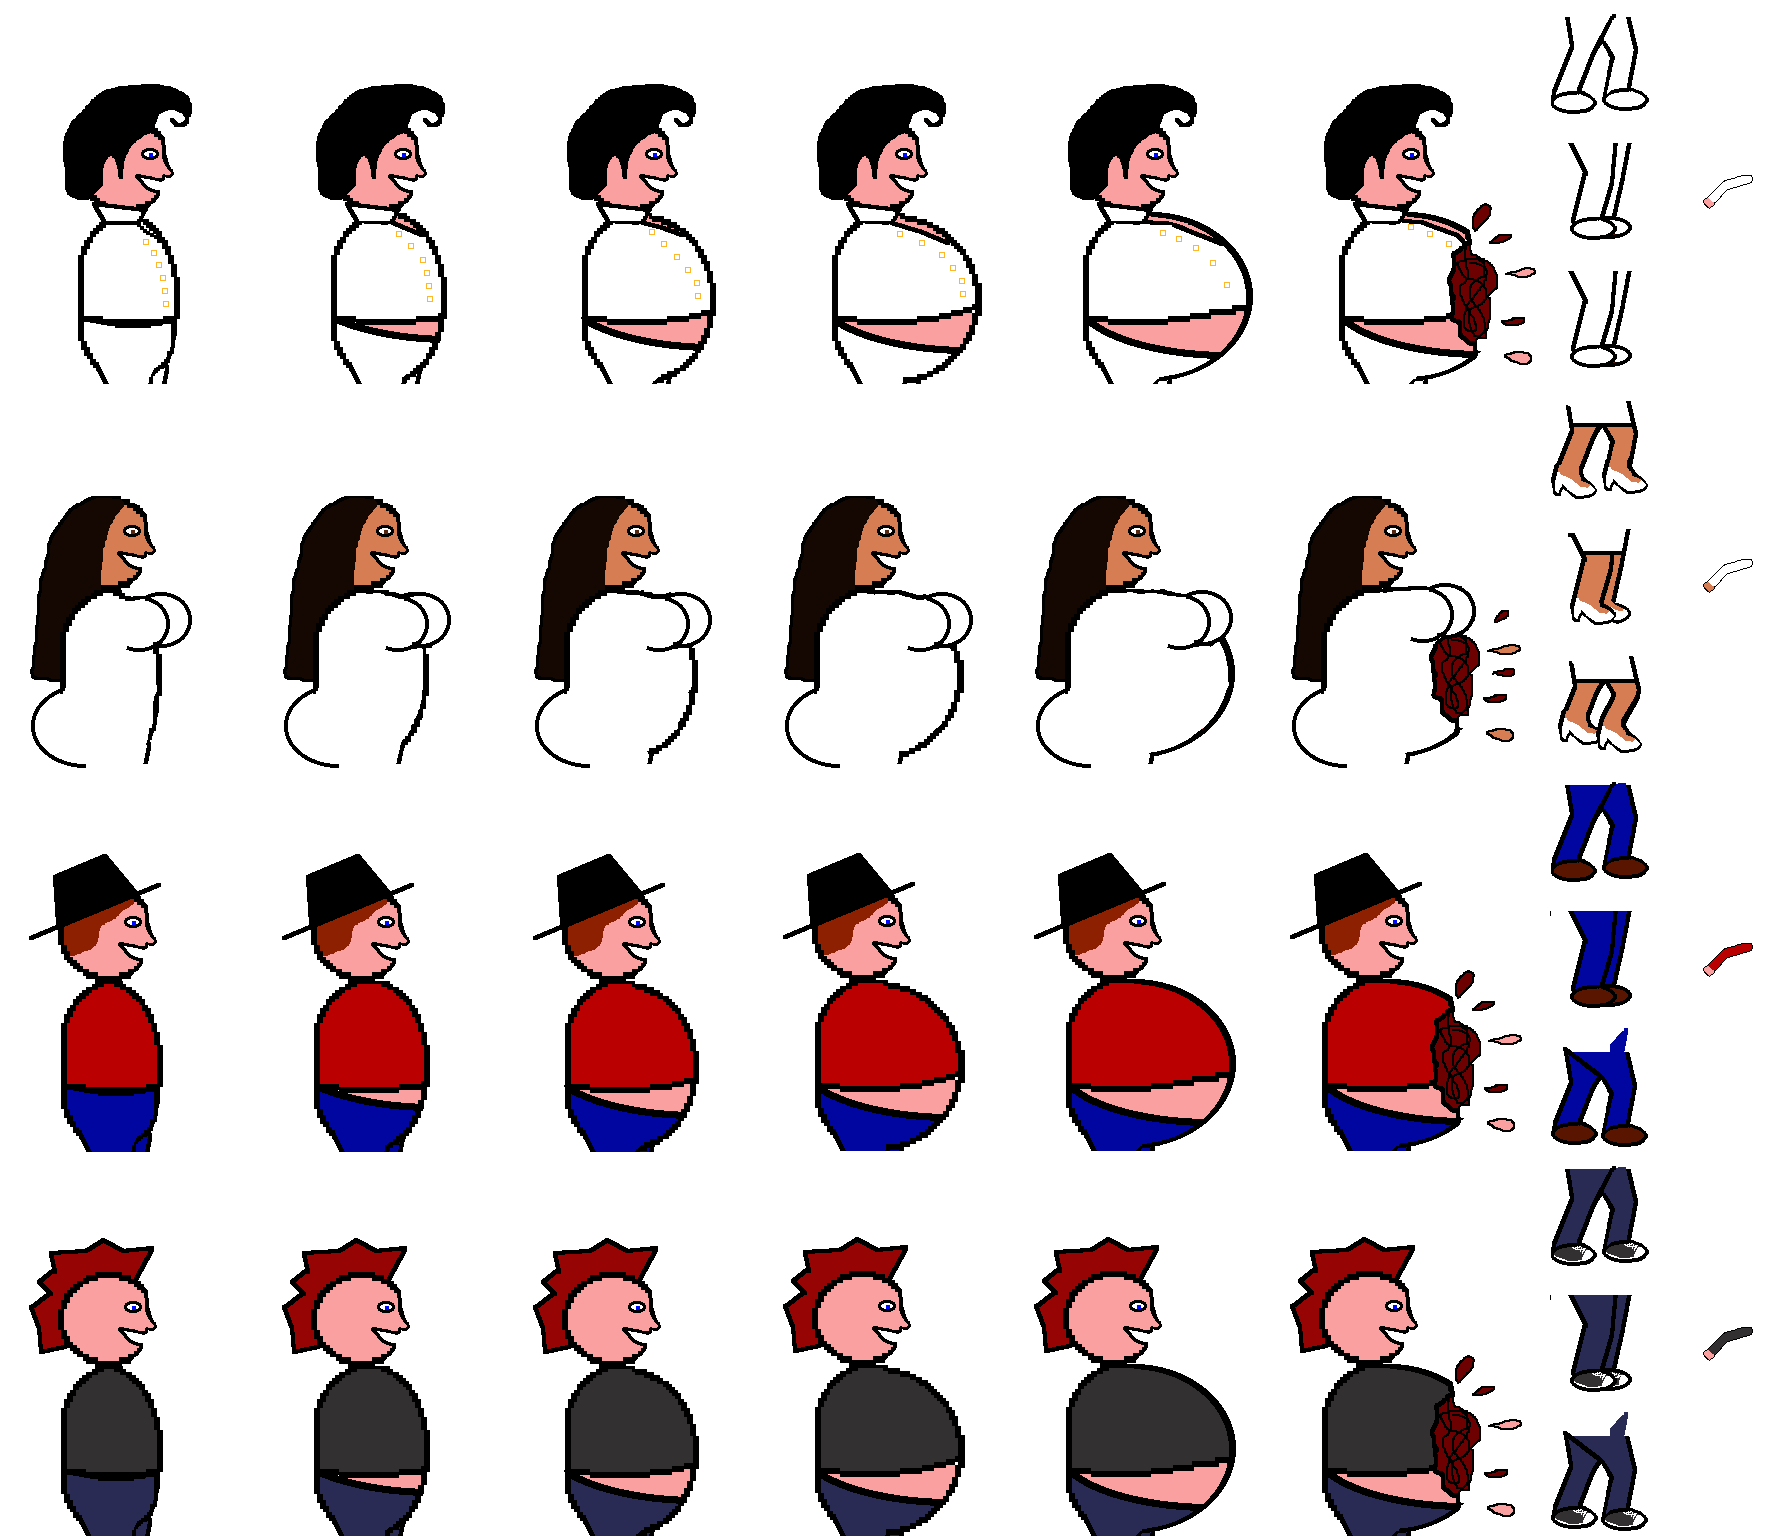
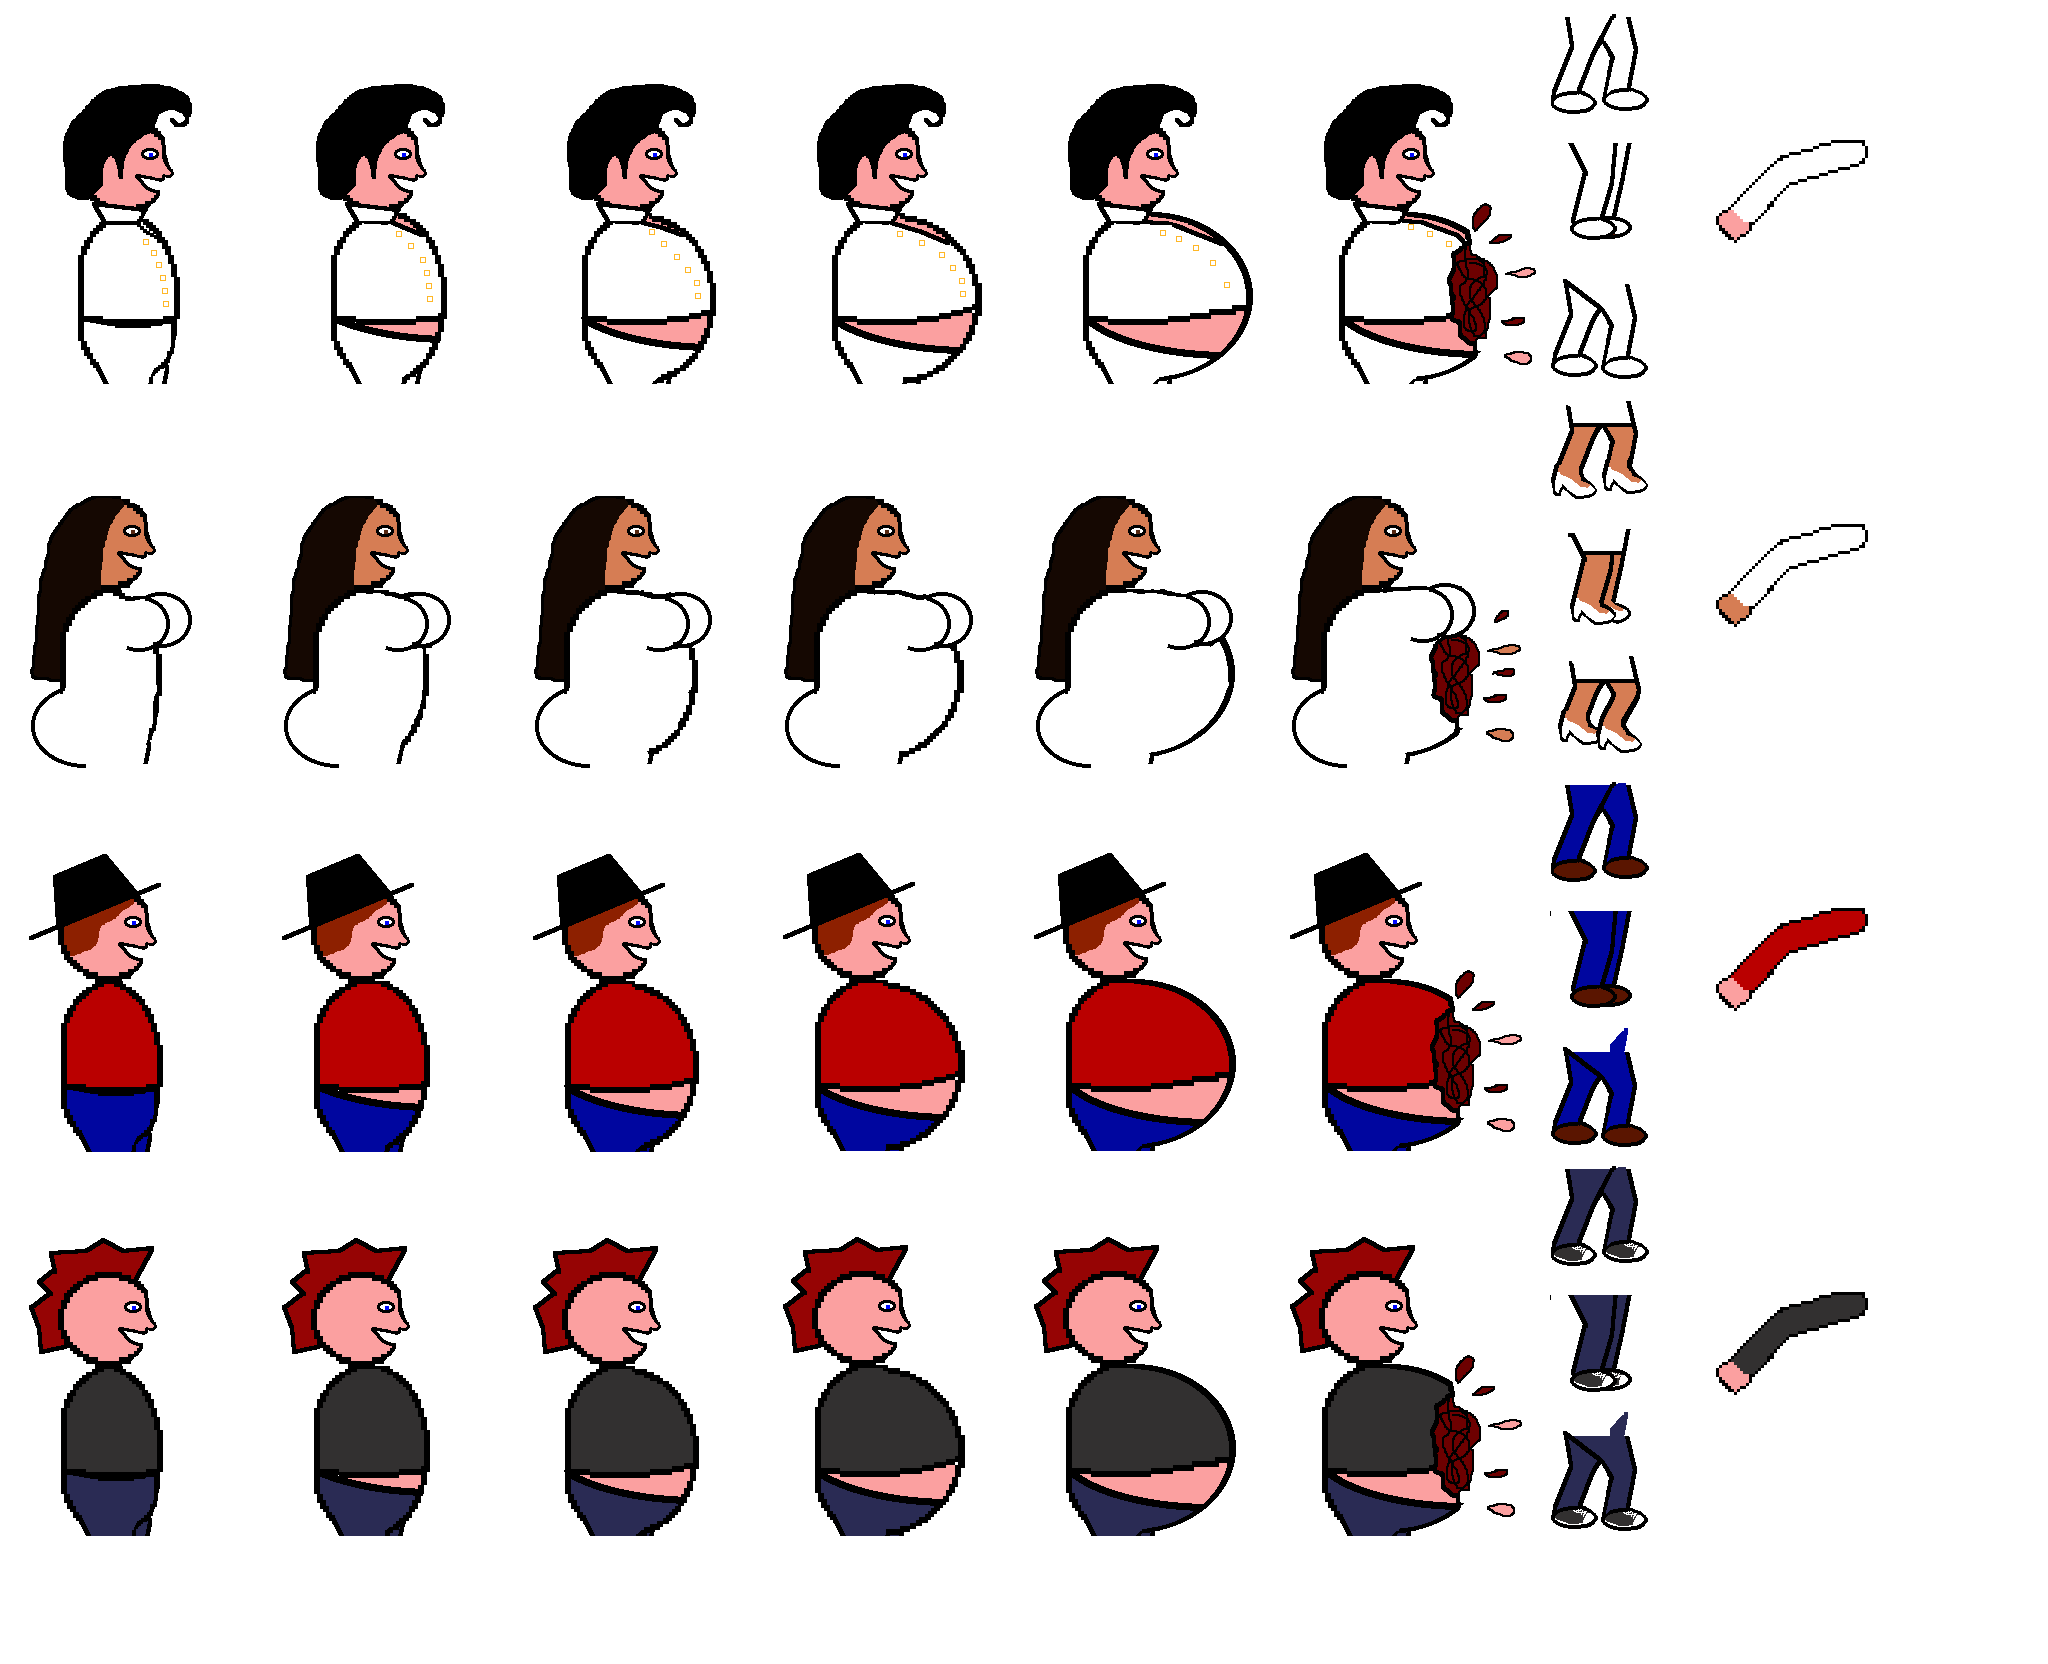
Basic feet animation

diff --git a/src/food-feud/main/java/uib/teamdank/foodfeud/Player.java b/src/food-feud/main/java/uib/teamdank/foodfeud/Player.java
@@ -6,25 +6,37 @@ import com.badlogic.gdx.physics.box2d.Body;
 import uib.teamdank.common.Actor;
 import uib.teamdank.common.Inventory;
 import uib.teamdank.common.ItemHolder;
+import uib.teamdank.common.util.Animation;
+import uib.teamdank.common.util.AssetManager;
 
 /**
  * Represents a player in the game.
  */
 public class Player extends Actor implements ItemHolder, PhysicsSimulated {
-	
+
 	private static final float HORIZONTAL_MOVEMENT_IMPULSE = 5000f;
 	private static final float JUMP_FORCE = 100000000f;
-	
+
+	private final Animation stillAnimation;
+	private final Animation walkingAnimation;
+	private final Animation fallingAnimation;
+
 	private Body body;
-	private boolean onGround; 
-	
+	private boolean onGround;
+	private boolean walking;
+
 	private Inventory weapons;
 	
-	public Player(String name) {
+	public Player(AssetManager assets, Team team, String name) {
 		super(100, name);
 		weapons = new Inventory();
+
+		this.stillAnimation = assets.getAnimation(team.getStillAnimation());
+		this.walkingAnimation = assets.getAnimation(team.getWalkingAnimation());
+		this.fallingAnimation = assets.getAnimation(team.getFallingAnimation());
+		setScale(.5f);
 	}
-	
+
 	@Override
 	public float getAngle() {
 		if (body != null) {
@@ -32,16 +44,16 @@ public class Player extends Actor implements ItemHolder, PhysicsSimulated {
 		}
 		return super.getAngle();
 	}
-	
+
 	public Body getBody() {
 		return body;
 	}
-	
+
 	@Override
 	public Inventory getInventory() {
 		return weapons;
 	}
-	
+
 	@Override
 	public Vector2 getPosition() {
 		if (body != null) {
@@ -51,30 +63,60 @@ public class Player extends Actor implements ItemHolder, PhysicsSimulated {
 		return super.getPosition();
 	}
 	
+	@Override
+	public Vector2 getVelocity() {
+		if (body != null) {
+			super.getVelocity().set(body.getLinearVelocity());
+		}
+		return super.getVelocity();
+	}
+
+	private boolean isMoving() {
+		return !body.getLinearVelocity().equals(Vector2.Zero);
+	}
+
 	public boolean isOnGround() {
 		return onGround;
 	}
-	
+
 	public void jump() {
 		if (isOnGround()) {
 			body.applyForceToCenter(0, JUMP_FORCE, true);
 		}
 	}
-	
+
 	public void moveLeft() {
 		body.applyLinearImpulse(-HORIZONTAL_MOVEMENT_IMPULSE, 0, getWidth() / 2, getHeight() / 2, true);
+		walking = true;
 	}
-	
+
 	public void moveRight() {
 		body.applyLinearImpulse(HORIZONTAL_MOVEMENT_IMPULSE, 0, getWidth() / 2, getHeight() / 2, true);
+		walking = true;
 	}
-	
+
 	public void setBody(Body body) {
 		this.body = body;
 	}
-	
+
 	public void setOnGround(boolean onGround) {
 		this.onGround = onGround;
 	}
-	
+
+	@Override
+	public void update(float delta) {
+		super.update(delta);
+		
+		if (isOnGround() && isMoving() && walking) {
+			setAnimation(walkingAnimation);
+		} else if (!isOnGround()) {
+			setAnimation(fallingAnimation);
+		} else {
+			setAnimation(stillAnimation);
+		}
+		setFlipHorizontally(getVelocity().x < 0);
+		walking = false;
+		
+	}
+
 }

diff --git a/src/food-feud/main/java/uib/teamdank/foodfeud/PhysicsContactListener.java b/src/food-feud/main/java/uib/teamdank/foodfeud/PhysicsContactListener.java
@@ -12,18 +12,20 @@ public class PhysicsContactListener implements ContactListener {
 
 	private final Match match;
 
+	private int activePlayerGroundContactCount = 0;
+
 	public PhysicsContactListener(Match match) {
 		this.match = Objects.requireNonNull(match, "match canont be null");
 	}
 
 	@Override
 	public void beginContact(Contact contact) {
-		updateActivePlayerGroundStatus(contact.getFixtureA(), contact.getFixtureB(), true);
+		updateActivePlayerGroundStatus(contact.getFixtureA(), contact.getFixtureB(), false);
 	}
 
 	@Override
 	public void endContact(Contact contact) {
-		updateActivePlayerGroundStatus(contact.getFixtureA(), contact.getFixtureB(), false);
+		updateActivePlayerGroundStatus(contact.getFixtureA(), contact.getFixtureB(), true);
 	}
 
 	@Override
@@ -36,11 +38,22 @@ public class PhysicsContactListener implements ContactListener {
 		// Not necessary
 	}
 
-	private void updateActivePlayerGroundStatus(Fixture fixtureA, Fixture fixtureB, boolean onGround) {
+	/**
+	 * Updates the active player's "touching the ground" status by examining the
+	 * potential contact between the player and the given fixtures. Nothing will
+	 * happen if none of the fixtures belong to the player.
+	 * <p>
+	 * Since the player's ground sensor can collide with more than fixture at
+	 * the same time, a count ({@link #activePlayerGroundContactCount}) is kept
+	 * to properly update the player.
+	 */
+	private void updateActivePlayerGroundStatus(Fixture fixtureA, Fixture fixtureB, boolean endContact) {
 		Object userDataA = fixtureA.getUserData();
 		Object userDataB = fixtureB.getUserData();
 		if (userDataA == match.getActivePlayer() || userDataB == match.getActivePlayer()) {
-			match.getActivePlayer().setOnGround(onGround);
+			activePlayerGroundContactCount += endContact ? -1 : 1;
+			assert (activePlayerGroundContactCount >= 0);
+			match.getActivePlayer().setOnGround(activePlayerGroundContactCount != 0);
 		}
 	}
 

diff --git a/src/food-feud/main/java/uib/teamdank/foodfeud/gui/GameScreen.java b/src/food-feud/main/java/uib/teamdank/foodfeud/gui/GameScreen.java
@@ -10,13 +10,16 @@ import com.badlogic.gdx.physics.box2d.Box2DDebugRenderer;
 import uib.teamdank.common.Game;
 import uib.teamdank.common.GameObject;
 import uib.teamdank.common.gui.Layer;
+import uib.teamdank.common.util.AssetManager;
 import uib.teamdank.foodfeud.Level;
 import uib.teamdank.foodfeud.LevelLoader;
 import uib.teamdank.foodfeud.Match;
+import uib.teamdank.foodfeud.MatchBuilder;
 import uib.teamdank.foodfeud.PhysicsContactListener;
 import uib.teamdank.foodfeud.PhysicsSimulated;
 import uib.teamdank.foodfeud.Player;
 import uib.teamdank.foodfeud.PlayerBodyCreator;
+import uib.teamdank.foodfeud.Team;
 
 /**
  * The main gameplay screen.
@@ -33,10 +36,17 @@ public class GameScreen extends uib.teamdank.common.gui.GameScreen {
 
 	public GameScreen(Game game) {
 		super(game);
+		
+		AssetManager assets = new AssetManager();
 
 		this.camera = new OrthographicCamera(Gdx.graphics.getWidth(), Gdx.graphics.getHeight());
 		this.level = LevelLoader.createFromJson(Gdx.files.internal("Data/field_level.json"));
-		this.match = new Match("Geir", "Bodil", "Arne", "Bertrude");
+		this.match = new MatchBuilder(assets)
+							.addPlayer("Geir", Team.ALPHA)
+							.addPlayer("Bodil", Team.BETA)
+							.addPlayer("Arne", Team.CHARLIE)
+							.addPlayer("Bertrude", Team.DELTA)
+							.build();
 		level.getWorld().setContactListener(new PhysicsContactListener(match));
 
 		camera.position.set(level.getWidth() / 2f, level.getHeight() / 2f, 0);
@@ -47,6 +57,7 @@ public class GameScreen extends uib.teamdank.common.gui.GameScreen {
 		this.playerLayer = new Layer(true);
 		addLayer(playerLayer);
 
+		
 		PlayerBodyCreator playerBodyCreator = new PlayerBodyCreator(level.getWorld());
 		TextureRegion playerTexture = new TextureRegion(new Texture("Images/food_sheet.png"), 53, 48, 57, 57); // Temporary
 		for (Player player : match.getPlayers()) {

diff --git a/src/food-feud/main/java/uib/teamdank/foodfeud/Match.java b/src/food-feud/main/java/uib/teamdank/foodfeud/Match.java
@@ -1,44 +1,32 @@
 package uib.teamdank.foodfeud;
 
-import java.util.ArrayList;
 import java.util.Arrays;
 import java.util.Collections;
-import java.util.HashSet;
 import java.util.List;
 import java.util.Objects;
-import java.util.Set;
 
 public class Match {
-	
-	private static final int MAX_PLAYER_COUNT = 4;
-	
+
+	public static final int MAX_PLAYER_COUNT = 4;
+
 	private final List<Player> players;
-	
+
 	private int turnCount;
-	
-	public Match(String...playerNames) {
-		Objects.requireNonNull(playerNames, "player name list cannot be null");
-		Arrays.asList(playerNames).forEach(name -> Objects.requireNonNull(name, "a player name cannot be null"));
-		Set<String> names = new HashSet<>(Arrays.asList(playerNames));
-		if (names.size() != playerNames.length || names.size() < 2 || names.size() > MAX_PLAYER_COUNT) {
-			throw new IllegalArgumentException("there must be 2-" + MAX_PLAYER_COUNT + " players");
-		}
-		
-		List<Player> playerList = new ArrayList<>(playerNames.length);
-		for (String playerName : playerNames) {
-			playerList.add(new Player(playerName));
-		}
-		this.players = Collections.unmodifiableList(playerList);
+
+	public Match(List<Player> players) {
+		Objects.requireNonNull(players, "player list cannot be null");
+		Arrays.asList(players).forEach(name -> Objects.requireNonNull(name, "a player cannot be null"));
+		this.players = Collections.unmodifiableList(players);
 	}
 
 	public Player getActivePlayer() {
 		return players.get(turnCount % players.size());
 	}
-	
+
 	public List<Player> getPlayers() {
 		return players;
 	}
-	
+
 	public void nextTurn() {
 		turnCount++;
 	}

diff --git a/src/food-feud/main/java/uib/teamdank/foodfeud/MatchBuilder.java b/src/food-feud/main/java/uib/teamdank/foodfeud/MatchBuilder.java
@@ -1,0 +1,50 @@
+package uib.teamdank.foodfeud;
+
+import java.util.ArrayList;
+import java.util.List;
+import java.util.Objects;
+
+import uib.teamdank.common.util.AssetManager;
+
+public class MatchBuilder {
+
+	private static class MatchPlayer {
+		public String name;
+		public Team team;
+	}
+
+	private final AssetManager assets;
+
+	private final List<MatchPlayer> players = new ArrayList<>();
+
+	public MatchBuilder(AssetManager assets) {
+		this.assets = Objects.requireNonNull(assets, "assets cannot be null");
+	}
+
+	public MatchBuilder addPlayer(String name, Team team) {
+		MatchPlayer player = new MatchPlayer();
+		player.name = Objects.requireNonNull(name, "a player name cannot be null");
+		player.team = Objects.requireNonNull(team, "a player team cannot be null");
+
+		for (MatchPlayer other : players) {
+			if (player.name.equals(other.name)) {
+				throw new IllegalArgumentException("that name is already taken: " + player.name);
+			}
+			if (player.team == other.team) {
+				throw new IllegalArgumentException("only one player per team allowed: " + player.team);
+			}
+		}
+
+		players.add(player);
+		return this;
+	}
+
+	public Match build() {
+		List<Player> playerList = new ArrayList<>(players.size());
+		for (MatchPlayer matchPlayer : players) {
+			playerList.add(new Player(assets, matchPlayer.team, matchPlayer.name));
+		}
+		return new Match(playerList);
+	}
+
+}

diff --git a/src/food-feud/main/java/uib/teamdank/foodfeud/Team.java b/src/food-feud/main/java/uib/teamdank/foodfeud/Team.java
@@ -1,0 +1,36 @@
+package uib.teamdank.foodfeud;
+
+public enum Team {
+	ALPHA("Rock'n'Rollers", 	   "Images/elvis_still_animation.json", "Images/elvis_walking_animation.json", "Images/elvis_falling_animation.json"),
+	BETA("Useless Celebrities",    "Images/elvis_still_animation.json", "Images/elvis_walking_animation.json", "Images/elvis_falling_animation.json"),
+	CHARLIE("Depressed Magicians", "Images/elvis_still_animation.json", "Images/elvis_walking_animation.json", "Images/elvis_falling_animation.json"),
+	DELTA("Annoying Teenagers",    "Images/elvis_still_animation.json", "Images/elvis_walking_animation.json", "Images/elvis_falling_animation.json");
+	
+	private final String name;
+	private final String stillAnimation;
+	private final String walkingAnimation;
+	private final String fallingAnimation;
+
+	private Team(String name, String stillAnimation, String walkingAnimation, String fallingAnimation) {
+		this.name = name;
+		this.stillAnimation = stillAnimation;
+		this.walkingAnimation = walkingAnimation;
+		this.fallingAnimation = fallingAnimation;
+	}
+
+	public String getName() {
+		return name;
+	}
+
+	public String getFallingAnimation() {
+		return fallingAnimation;
+	}
+	
+	public String getStillAnimation() {
+		return stillAnimation;
+	}
+
+	public String getWalkingAnimation() {
+		return walkingAnimation;
+	}
+}

diff --git a/src/food-feud/main/java/uib/teamdank/foodfeud/PlayerBodyCreator.java b/src/food-feud/main/java/uib/teamdank/foodfeud/PlayerBodyCreator.java
@@ -22,12 +22,13 @@ public class PlayerBodyCreator {
 	private void addGroundCollider(Player player, Body body) {
 		CircleShape shape = new CircleShape();
 		shape.setRadius(player.getWidth() / 2f);
+		shape.setPosition(new Vector2(0, -player.getHeight() / 3));
 		body.createFixture(shape, 1);
 	}
 	
 	private void addGroundDetector(Player player, Body body) {
 		PolygonShape shape = new PolygonShape();
-		shape.setAsBox(5, 5, new Vector2(0f, -player.getHeight() / 2f), 0);
+		shape.setAsBox(player.getWidth() / 3, 6, new Vector2(0f, -player.getHeight() + 3), 0);
 		FixtureDef fixtureDef = new FixtureDef();
 		fixtureDef.shape = shape;
 		fixtureDef.isSensor = true;
@@ -38,6 +39,7 @@ public class PlayerBodyCreator {
 		BodyDef bodyDef = new BodyDef();
 		bodyDef.type = BodyType.DynamicBody;
 		bodyDef.fixedRotation = true;
+		bodyDef.linearDamping = .01f;
 		Body body = world.createBody(bodyDef);
 
 		addGroundCollider(player, body);

diff --git a/src/food-feud/test/java/uib/teamdank/foodfeud/PlayerTest.java b/src/food-feud/test/java/uib/teamdank/foodfeud/PlayerTest.java
@@ -12,7 +12,7 @@ public class PlayerTest {
 	
 	@Before
 	public void setUp() {
-		player = new Player("sturle");
+		player = new Player(null, Team.ALPHA, "sturle");
 	}
 
 	@Test
